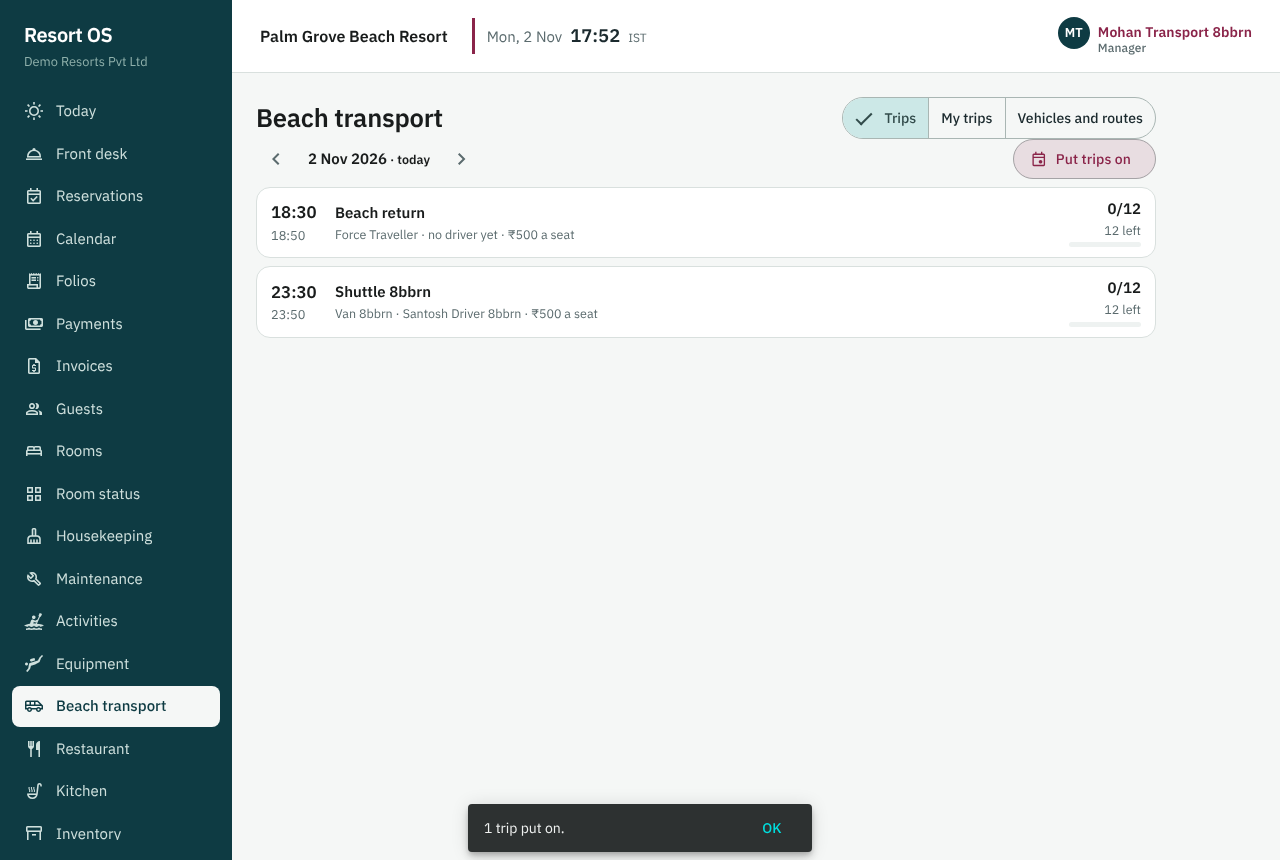
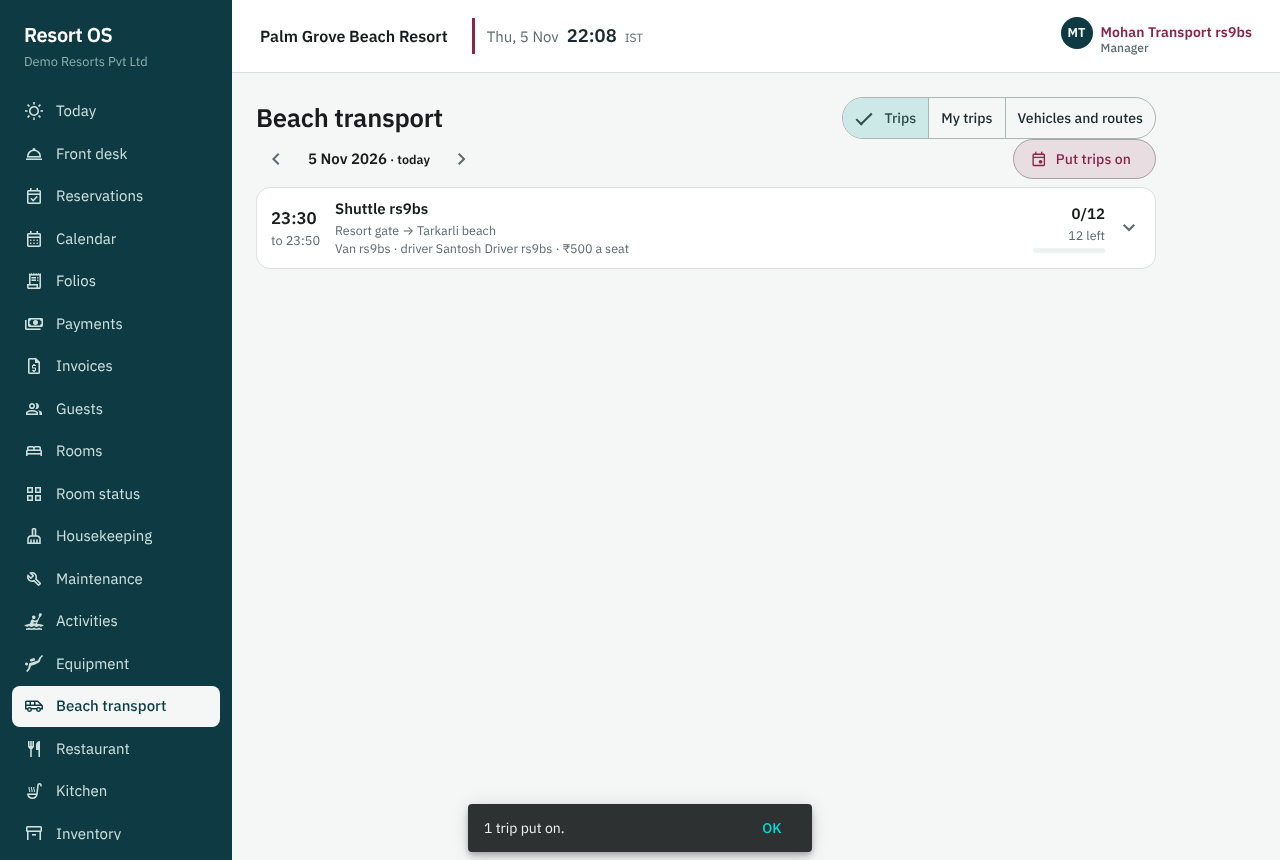
Sprint 21: clearer trip rows and driver card
- Trips: the route's from → to, "to 22:20" for the arrival, "driver …", and an
  open/close chevron on each row
- My trips: the passenger's name and seats on one line with the room and note
  under it (was three lines with "× 3"), an "On board" tag, and Left / Arrived /
  Manifest all 48 px high
- Screenshots refreshed

Claude-Session: https://claude.ai/code/session_01Xv66qXJ8LKAwFRH6rsVEGt

diff --git a/frontend/src/app/features/transport/transport.page.ts b/frontend/src/app/features/transport/transport.page.ts
@@ -60,9 +60,10 @@ function addDays(iso: string, n: number): string {
           @for (t of day()?.trips ?? []; track t.id) {
             <li [attr.data-trip]="t.routeCode + '-' + t.departTime" [class.off]="t.status === 'CANCELLED'" [class.open]="openId() === t.id">
               <button class="row" type="button" (click)="toggle(t)" [attr.aria-expanded]="openId() === t.id">
-                <span class="time">{{ t.departTime }}<small>{{ t.arriveTime }}</small></span>
+                <span class="time">{{ t.departTime }}<small>to {{ t.arriveTime }}</small></span>
                 <span class="what"><b>{{ t.routeName }}</b>
-                  <small class="mute">{{ t.vehicleName }} · {{ t.driverName ?? 'no driver yet' }} · {{ t.price ? rupees(t.price) + ' a seat' : 'free' }}@if (t.note) { · {{ t.note }} }</small>
+                  <small class="mute">{{ t.origin }} → {{ t.destination }}</small>
+                  <small class="mute">{{ t.vehicleName }} · {{ t.driverName ? 'driver ' + t.driverName : 'no driver yet' }} · {{ t.price ? rupees(t.price) + ' a seat' : 'free' }}@if (t.note) { · {{ t.note }} }</small>
                   @if (t.status === 'CANCELLED') { <small class="cx">Cancelled: {{ t.cancelReason }}</small> }
                   @else if (t.status !== 'SCHEDULED') { <small class="st">{{ statusText(t) }}</small> }
                 </span>
@@ -71,6 +72,7 @@ function addDays(iso: string, n: number): string {
                   <small>{{ t.status === 'CANCELLED' ? 'cancelled' : t.status !== 'SCHEDULED' ? t.onBoard + ' on board' : t.seatsLeft === 0 ? 'full' : t.seatsLeft + ' left' }}</small>
                   <span class="meter"><span [style.width.%]="100 * t.seatsBooked / t.capacity"></span></span>
                 </span>
+                <mat-icon class="chev" aria-hidden="true">{{ openId() === t.id ? 'expand_less' : 'expand_more' }}</mat-icon>
               </button>
               @if (openId() === t.id) {
                 <div class="detail">
@@ -123,12 +125,15 @@ function addDays(iso: string, n: number): string {
                             [attr.aria-label]="(p.status === 'BOARDED' ? 'Untick ' : 'Tick ') + p.guestName">
                       <mat-icon>{{ p.status === 'BOARDED' ? 'check_box' : p.status === 'NO_SHOW' ? 'block' : 'check_box_outline_blank' }}</mat-icon>
                     </button>
-                    <span class="who"><b>{{ p.guestName }}</b> × {{ p.seats }}
-                      <small>{{ p.room ?? (p.settlement === 'COMPLIMENTARY' ? 'Complimentary' : 'Visitor') }}@if (p.note) { · {{ p.note }} }@if (p.status === 'NO_SHOW') { · no-show }</small></span>
+                    <span class="who">
+                      <span class="line"><b>{{ p.guestName }}</b><span class="n">{{ seats(p.seats) }}</span></span>
+                      <small>{{ p.room ?? (p.settlement === 'COMPLIMENTARY' ? 'Complimentary' : 'Visitor') }}@if (p.note) { · {{ p.note }} }@if (p.status === 'NO_SHOW') { · no-show }</small>
+                    </span>
+                    @if (p.status === 'BOARDED') { <span class="tag ok">On board</span> }
                   </li>
                 } @empty { <li class="mute">Nobody is booked on this trip.</li> }
               </ul>
-              <div class="actions">
+              <div class="actions big-btns">
                 @if (d.trip.actions.includes('depart')) { <button mat-flat-button class="go" (click)="depart(d.trip)"><mat-icon>directions_bus</mat-icon>Left</button> }
                 @if (d.trip.actions.includes('complete')) { <button mat-flat-button class="go" (click)="complete(d.trip)"><mat-icon>where_to_vote</mat-icon>Arrived</button> }
                 <button mat-stroked-button (click)="manifest(d.trip)"><mat-icon>picture_as_pdf</mat-icon>Manifest</button>
@@ -201,8 +206,12 @@ function addDays(iso: string, n: number): string {
     .box:disabled { cursor: default; color: #9aa7a9; } .box:not(:disabled):hover { background: #eef5f4; }
     .box mat-icon { font-size: 32px; width: 32px; height: 32px; }
     .tick li.on .box { color: #1b6e3a; }
-    .who { display: flex; flex-direction: column; min-width: 0; } .who small { color: #5b6b6e; }
-    .go { min-height: 48px; }
+    .who { flex: 1; display: flex; flex-direction: column; min-width: 0; } .who small { color: #5b6b6e; }
+    .who .line { display: flex; gap: 8px; align-items: baseline; flex-wrap: wrap; }
+    .who .n { font-size: .85rem; color: #0e3b43; background: #eef5f4; border-radius: 10px; padding: 1px 8px; }
+    .tag { font-size: .8rem; border-radius: 10px; padding: 2px 8px; flex: none; } .tag.ok { color: #1b6e3a; background: #e3f0e6; }
+    .big-btns { margin-top: 10px; } .big-btns button { min-height: 48px; border-radius: 24px; }
+    .chev { color: #5b6b6e; flex: none; }
   `,
 })
 export class TransportPage {
